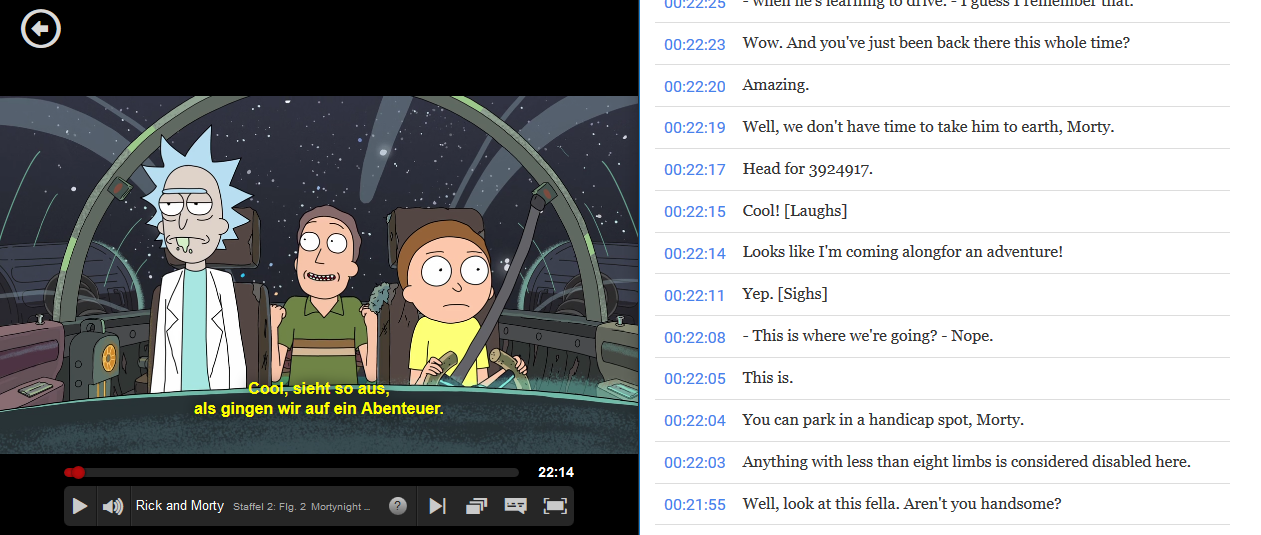
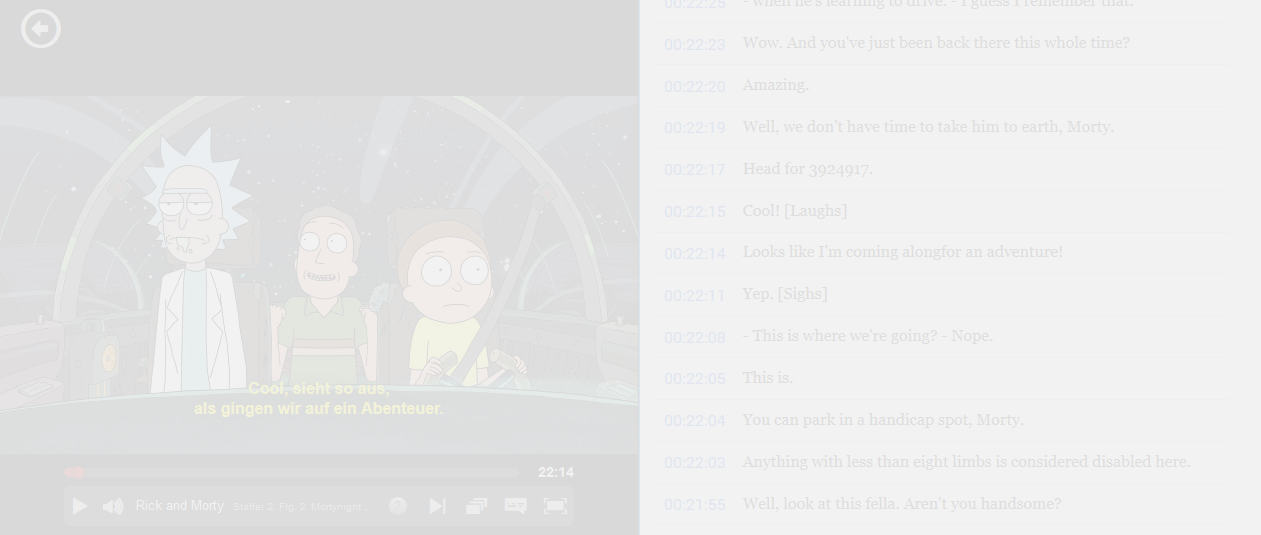
Improved styles
Improved the look and feel of the website.

diff --git a/SubtitleViewerWeb/Content/stylesheet-site.css b/SubtitleViewerWeb/Content/stylesheet-site.css
@@ -4,5 +4,10 @@
 }
 
 .img-thumbnail {
-  max-width: 50%;
+  max-width: 70%;
+}
+
+.jumbotron {
+  background-image: url("/Content/Images/Example.png");
+  background-size: 100% 100%;
 }
